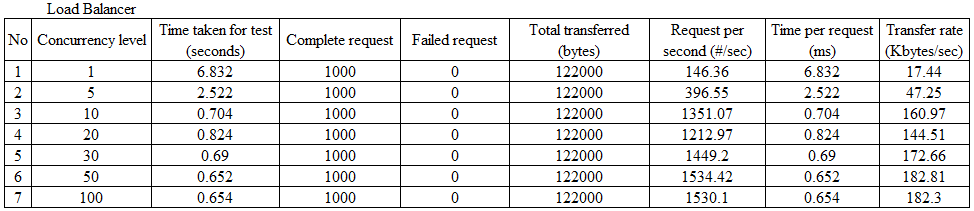
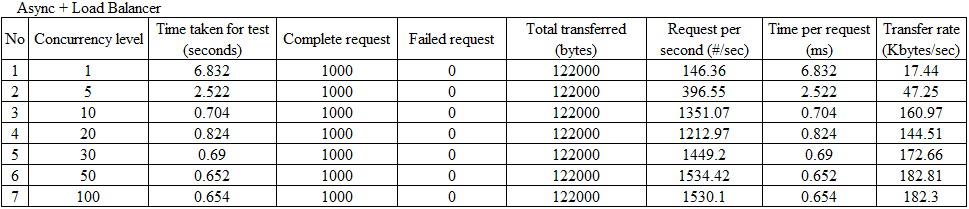
update tugas 10

Changed region(s): [[0.0, 0.0, 1.0, 1.0], [0.0929, 0.4306, 0.1238, 0.4593]]

diff --git a/Tugas10/thread_server.py b/Tugas10/thread_server.py
@@ -1,0 +1,79 @@
+from socket import *
+import socket
+import threading
+import time
+import sys
+import logging
+from http import HttpServer
+
+httpserver = HttpServer()
+
+
+class ProcessTheClient(threading.Thread):
+	def __init__(self, connection, address):
+		self.connection = connection
+		self.address = address
+		threading.Thread.__init__(self)
+
+	def run(self):
+		rcv=""
+		while True:
+			try:
+				data = self.connection.recv(32)
+				if data:
+					#merubah input dari socket (berupa bytes) ke dalam string
+					#agar bisa mendeteksi \r\n
+					d = data.decode()
+					rcv=rcv+d
+					if rcv[-2:]=='\r\n':
+						#end of command, proses string
+						logging.warning("data dari client: {}" . format(rcv))
+						hasil = httpserver.proses(rcv)
+						#hasil akan berupa bytes
+						#untuk bisa ditambahi dengan string, maka string harus di encode
+						hasil=hasil+"\r\n\r\n".encode()
+						logging.warning("balas ke  client: {}" . format(hasil))
+						#hasil sudah dalam bentuk bytes
+						self.connection.sendall(hasil)
+						rcv=""
+						self.connection.close()
+				else:
+					break
+			except OSError as e:
+				pass
+		self.connection.close()
+
+
+
+class Server(threading.Thread):
+	def __init__(self,port):
+		self.the_clients = []
+		self.my_socket = socket.socket(socket.AF_INET, socket.SOCK_STREAM)
+		self.my_socket.setsockopt(socket.SOL_SOCKET, socket.SO_REUSEADDR, 1)
+		threading.Thread.__init__(self)
+		#edit agar bisa run di banyak port
+		self.my_socket.bind(('0.0.0.0', port))
+
+	def run(self):
+		self.my_socket.listen(1)
+		while True:
+			self.connection, self.client_address = self.my_socket.accept()
+			logging.warning("connection from {}".format(self.client_address))
+
+			clt = ProcessTheClient(self.connection, self.client_address)
+			clt.start()
+		self.the_clients.append(clt)
+
+
+def main():
+	portnumber=9002
+	try:
+		portnumber=int(sys.argv[1])
+	except:
+		pass
+	svr = Server(portnumber)
+	svr.start()
+
+if __name__=="__main__":
+	main()
+

diff --git a/Tugas10/lb.py b/Tugas10/lb.py
@@ -8,10 +8,10 @@ import logging
 class BackendList:
 	def __init__(self):
 		self.servers=[]
-		self.servers.append(('127.0.0.1',9002))
-		self.servers.append(('127.0.0.1',9003))
-		self.servers.append(('127.0.0.1',9004))
-		self.servers.append(('127.0.0.1',9005))
+		self.servers.append(('127.0.0.1',9006))
+		self.servers.append(('127.0.0.1',9007))
+		self.servers.append(('127.0.0.1',9008))
+		self.servers.append(('127.0.0.1',9009))
 		self.current=0
 	def getserver(self):
 		s = self.servers[self.current]

diff --git a/Tugas10/README.md b/Tugas10/README.md
@@ -2,19 +2,23 @@
 
 ## Tabel Stress Test Load Balancer vs Asynchronous vs Threaded Server
 
-### Load Balancer
+### Async Server dengan Load Balancer
 
 ![l0](images/LB.png)
 
-### Async
+### Thread Server dengan Load Balancer
+
+![l0](images/TLB.png)
+
+### Async Server tanpa Load Balancer
 
 ![a0](images/async.png)
 
-### Thread
+### Thread Server tanpa Load Balancer
 
 ![t0](images/thread.png)
 
-## Hasil Stress Test Apache-Benchmark Server dengan Load Balancer 1000 Request
+## Hasil Stress Test Apache-Benchmark Async Server dengan Load Balancer 1000 Request
 
 ### Concurrency 1
 
@@ -43,3 +47,33 @@
 ### Concurrency 100
 
 ![l7](images/C100.png)
+
+## Hasil Stress Test Apache-Benchmark Thread Server dengan Load Balancer 1000 Request
+
+### Concurrency 1
+
+![t1](images/T1.png)
+
+### Concurrency 5
+
+![t2](images/T5.png)
+
+### Concurrency 10
+
+![t3](images/CT0.png)
+
+### Concurrency 20
+
+![t4](images/CT0.png)
+
+### Concurrency 30
+
+![t5](images/CT0.png)
+
+### Concurrency 50
+
+![t6](images/CT0.png)
+
+### Concurrency 100
+
+![t7](images/CT00.png)
